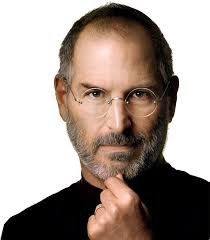
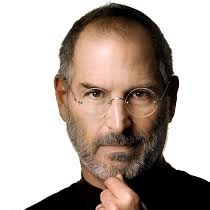
Changed to object-fit contain

diff --git a/index.html b/index.html
@@ -4,7 +4,7 @@
 <head>
     <meta charset="UTF-8">
     <meta name="viewport" content="width=device-width, initial-scale=1.0">
-    <link rel="stylesheet" href="./css/style.css">
+    <link rel="stylesheet" href="css/style.css">
     <title>Profile Card</title>
 </head>
 
@@ -16,7 +16,8 @@
             </div>
             <div class="profile-card-bottom">
                 <h2 class="profile-card-name">Bill Gates</h2>
-                <p class="profile-card-description">Lorem ipsum dolor sit amet consectetur, adipisicing elit. Perferendis suscipit voluptatum quidem explicabo sunt?</p>
+                <p class="profile-card-description">Lorem ipsum dolor sit amet consectetur, adipisicing elit.
+                    Perferendis suscipit voluptatum quidem explicabo sunt?</p>
                 <button class="profile-card-button">Profile</button>
             </div>
         </div>
@@ -26,7 +27,8 @@
             </div>
             <div class="profile-card-bottom">
                 <h2 class="profile-card-name">Eve Jobs</h2>
-                <p class="profile-card-description">Lorem ipsum dolor sit amet consectetur, adipisicing elit. Perferendis suscipit voluptatum quidem explicabo sunt?</p>
+                <p class="profile-card-description">Lorem ipsum dolor sit amet consectetur, adipisicing elit.
+                    Perferendis suscipit voluptatum quidem explicabo sunt?</p>
                 <button class="profile-card-button">Profile</button>
             </div>
         </div>
@@ -36,7 +38,8 @@
             </div>
             <div class="profile-card-bottom">
                 <h2 class="profile-card-name">Henrik Suurik</h2>
-                <p class="profile-card-description">Lorem ipsum dolor sit amet consectetur, adipisicing elit. Perferendis suscipit voluptatum quidem explicabo sunt?</p>
+                <p class="profile-card-description">Lorem ipsum dolor sit amet consectetur, adipisicing elit.
+                    Perferendis suscipit voluptatum quidem explicabo sunt?</p>
                 <button class="profile-card-button">Profile</button>
             </div>
         </div>
@@ -46,7 +49,8 @@
             </div>
             <div class="profile-card-bottom">
                 <h2 class="profile-card-name">Melinda Gates</h2>
-                <p class="profile-card-description">Lorem ipsum dolor sit amet consectetur, adipisicing elit. Perferendis suscipit voluptatum quidem explicabo sunt?</p>
+                <p class="profile-card-description">Lorem ipsum dolor sit amet consectetur, adipisicing elit.
+                    Perferendis suscipit voluptatum quidem explicabo sunt?</p>
                 <button class="profile-card-button">Profile</button>
             </div>
         </div>
@@ -56,7 +60,8 @@
             </div>
             <div class="profile-card-bottom">
                 <h2 class="profile-card-name">Steve Jobs</h2>
-                <p class="profile-card-description">Lorem ipsum dolor sit amet consectetur, adipisicing elit. Perferendis suscipit voluptatum quidem explicabo sunt?</p>
+                <p class="profile-card-description">Lorem ipsum dolor sit amet consectetur, adipisicing elit.
+                    Perferendis suscipit voluptatum quidem explicabo sunt?</p>
                 <button class="profile-card-button">Profile</button>
             </div>
         </div>

diff --git a/css/style.css b/css/style.css
@@ -48,7 +48,7 @@
     z-index: 1;
     height: 100%;
     aspect-ratio: 1 / 1;
-    object-fit: fill;
+    object-fit: contain;
     border-radius: 50%;
     border: 4px solid white;  
 }
